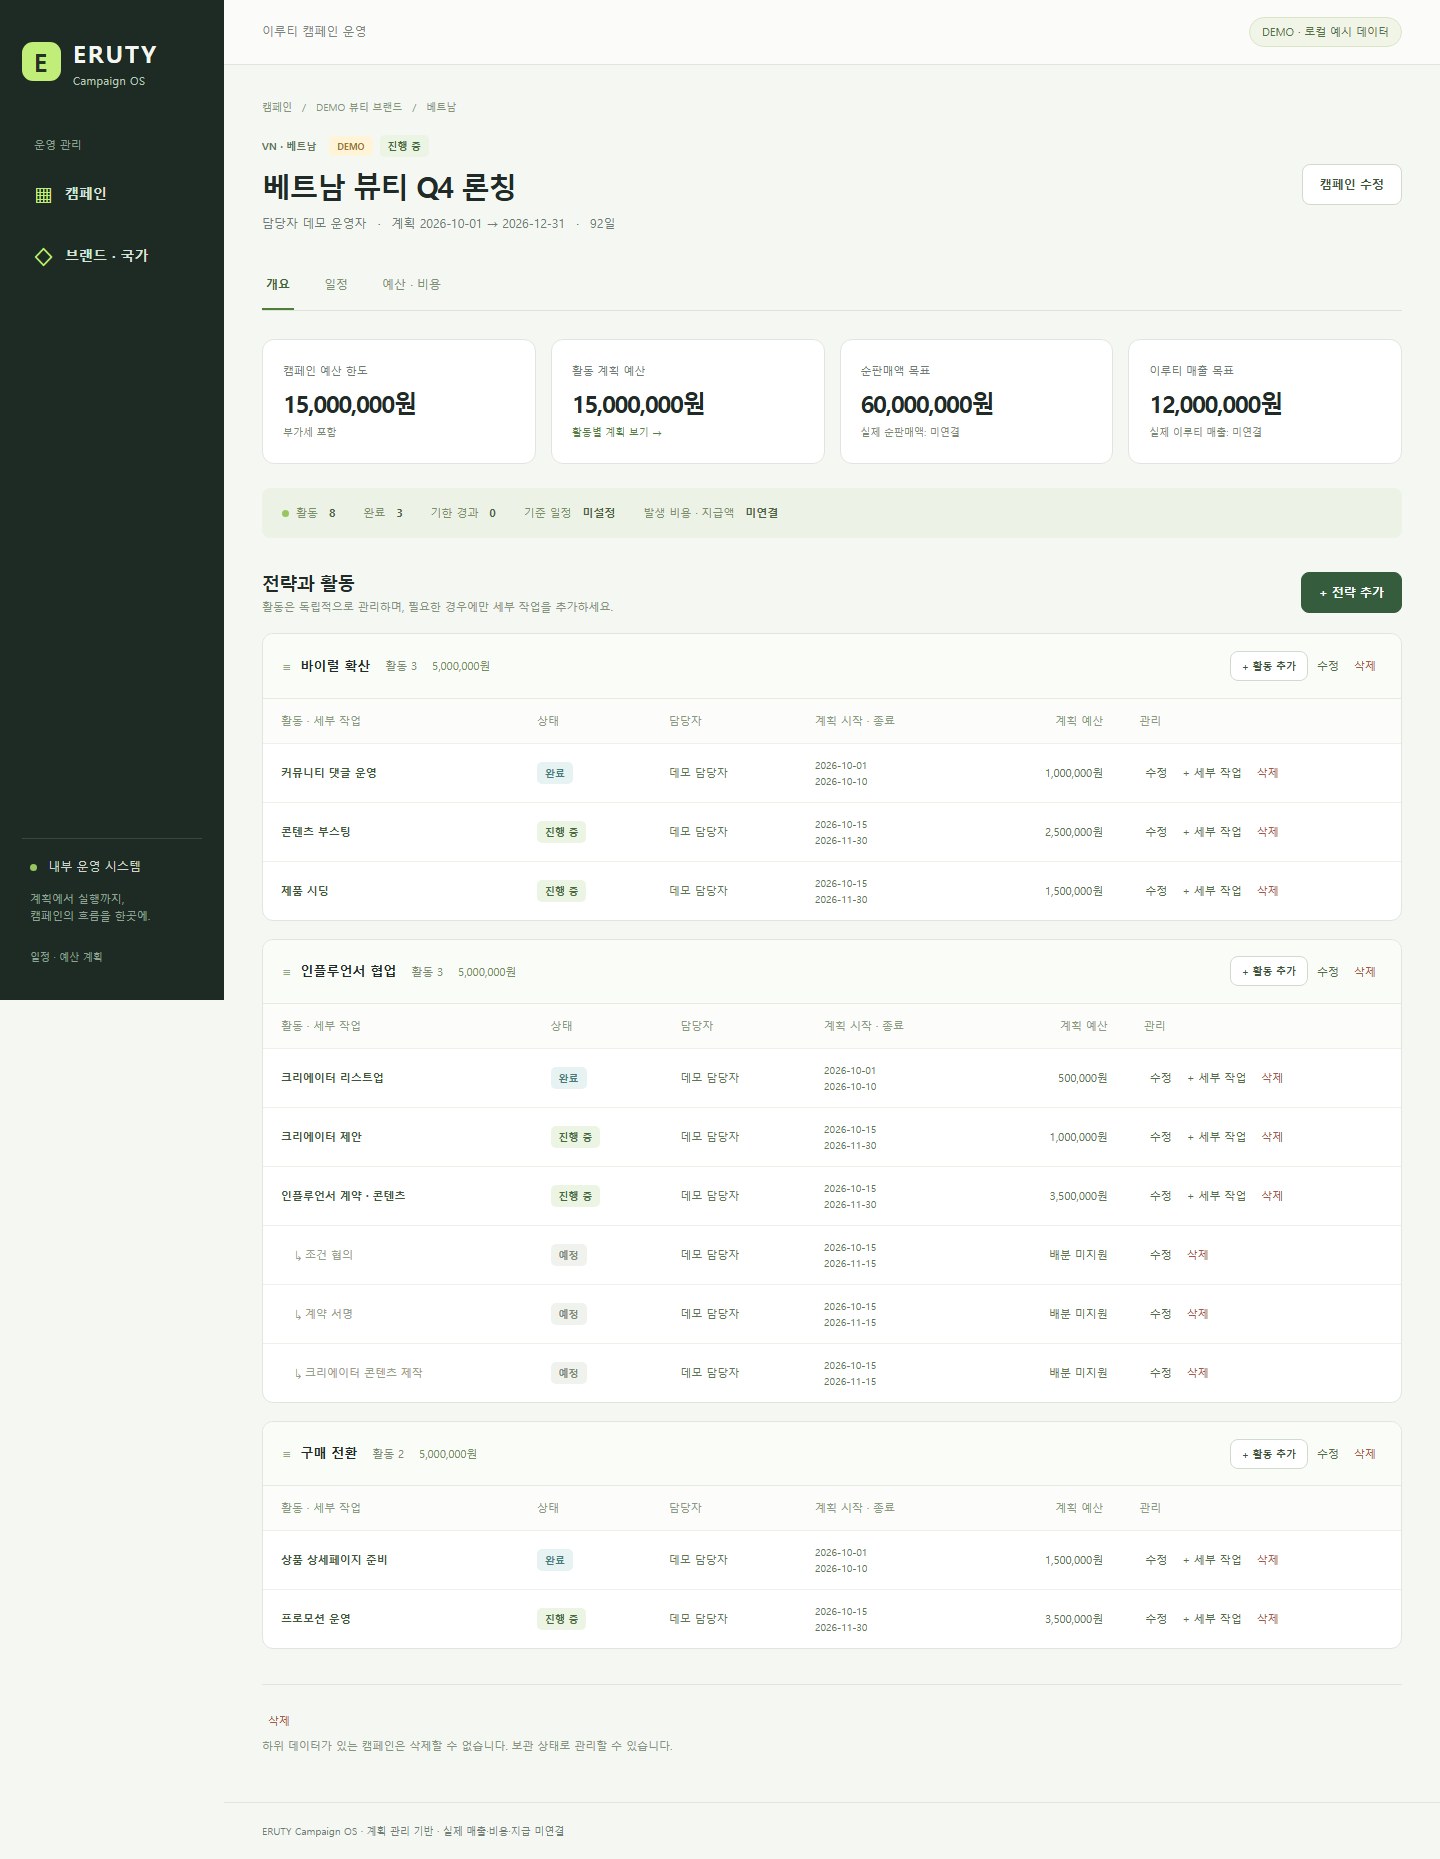
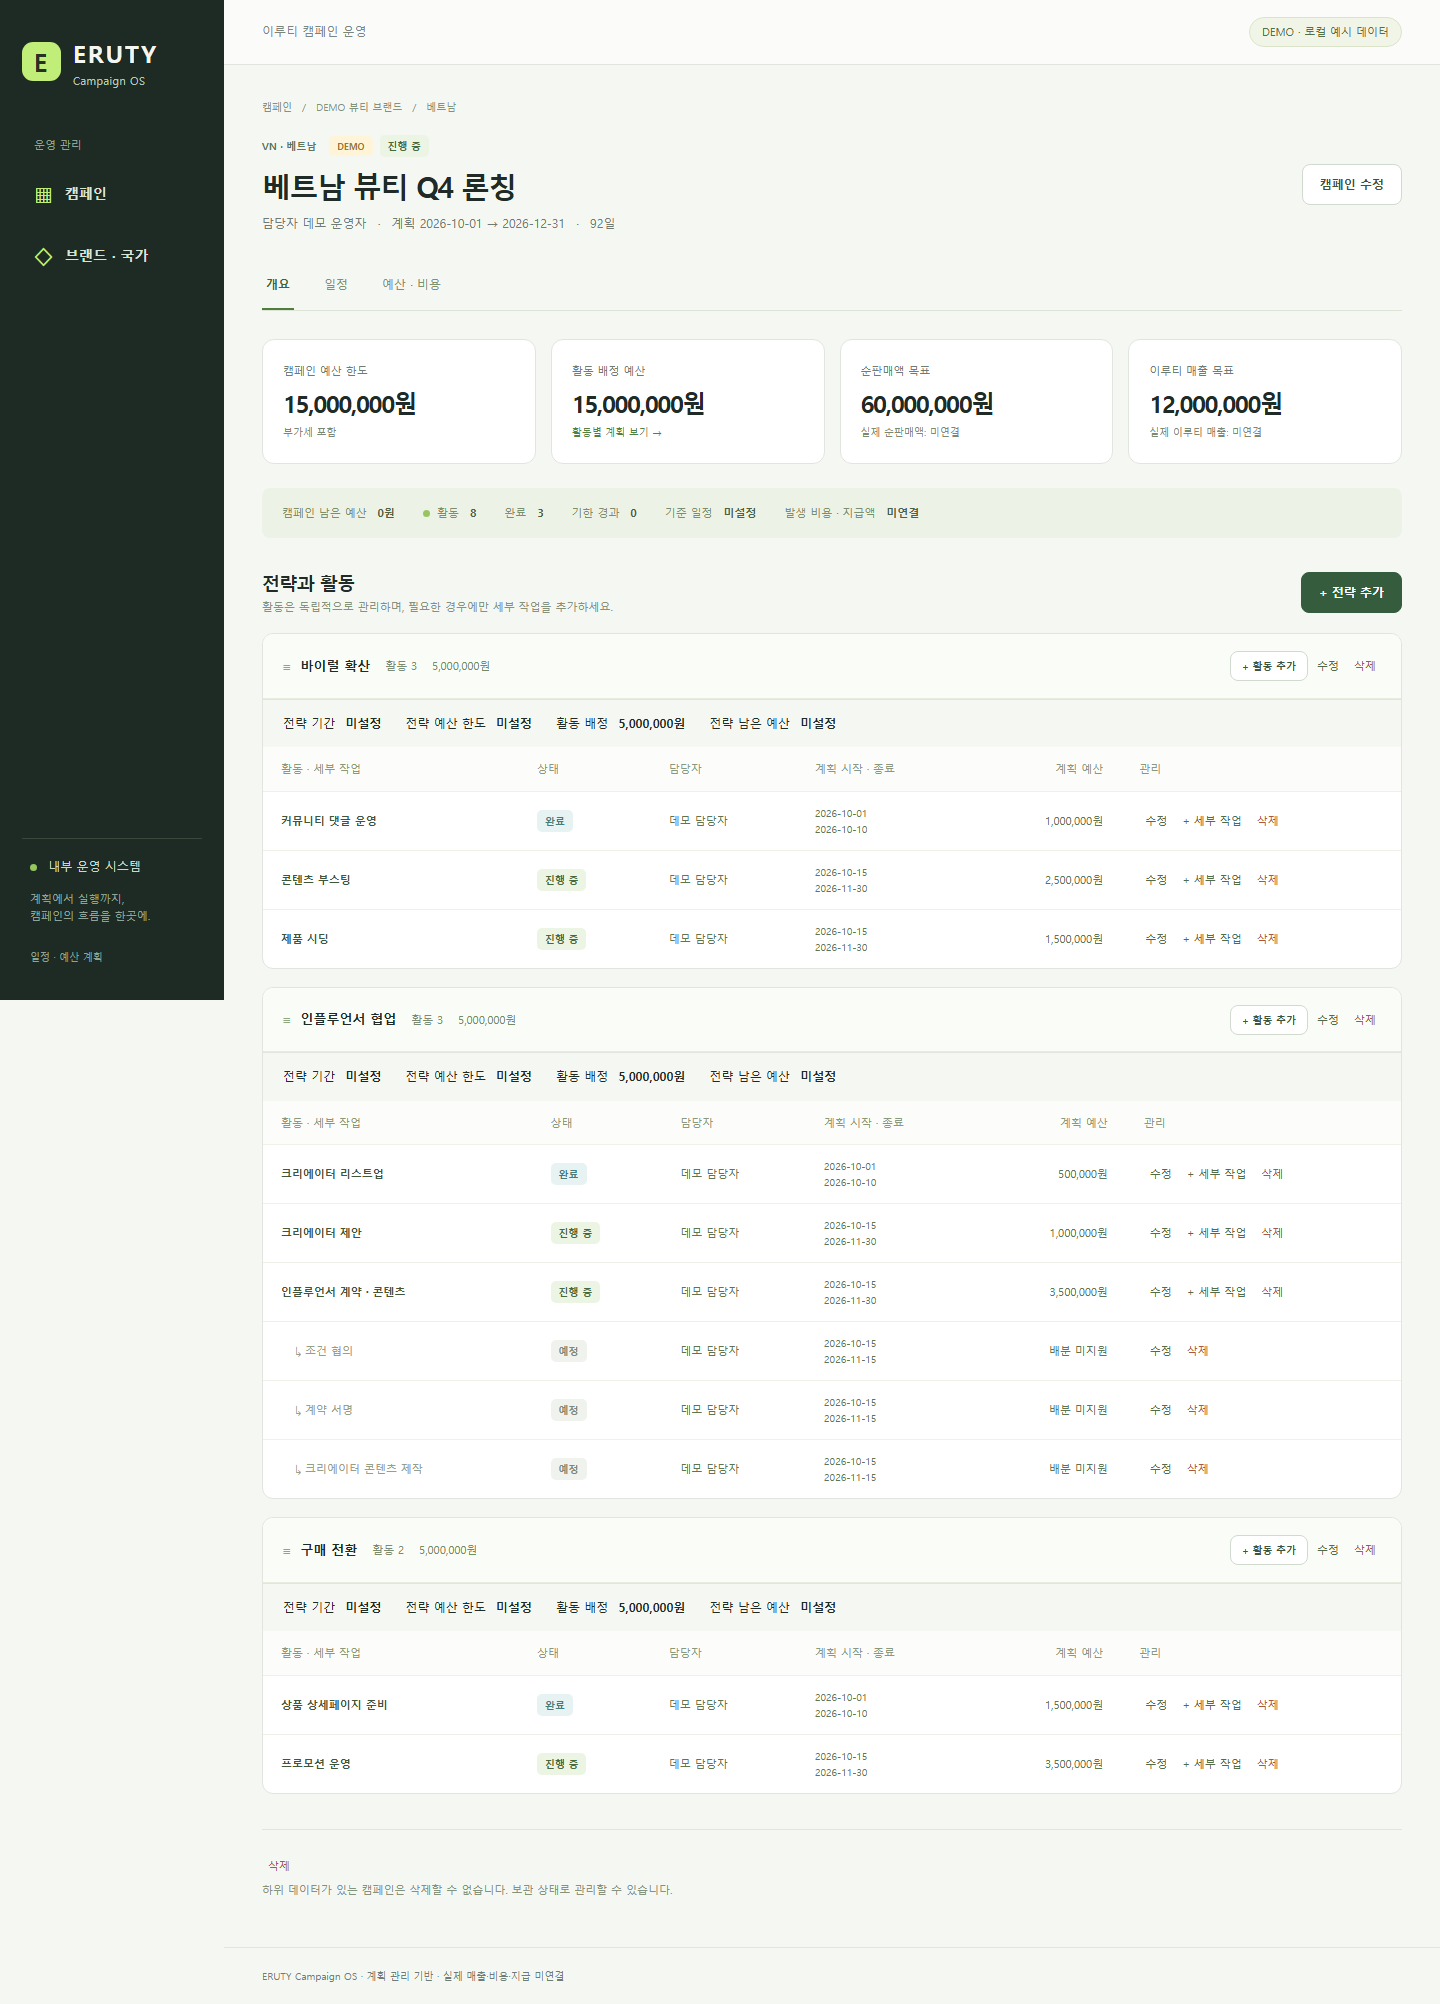
feat: add strategy periods and budget allocation visibility

diff --git a/components/campaign-detail.tsx b/components/campaign-detail.tsx
@@ -5,6 +5,7 @@ import { useRouter } from "next/navigation";
 import { api } from "./api";
 import { EntityForm, DeleteButton, type Field } from "./entity-form";
 import { campaignFields, workFields } from "./campaign-fields";
+import { StrategyPlan } from "./strategy-plan";
 import {
   krw,
   day,
@@ -100,16 +101,22 @@ export default function CampaignDetail({
       path: `campaigns/${id}/strategies${strategy ? `/${strategy.id}` : ""}`,
       fields: [
         { key: "name", label: "전략명" },
+        { key: "planStart", label: "전략 시작일", type: "date", nullable: true },
+        { key: "planEnd", label: "전략 종료일", type: "date", nullable: true },
+        { key: "budgetCeilingKrw", label: "전략 예산 한도 (원)", type: "money", nullable: true },
         { key: "sortOrder", label: "정렬 순서", type: "number" },
       ],
       editing: !!strategy,
       values: strategy
         ? {
             name: strategy.name,
+            planStart: strategy.planStart ? day(strategy.planStart) : null,
+            planEnd: strategy.planEnd ? day(strategy.planEnd) : null,
+            budgetCeilingKrw: strategy.budgetCeilingKrw,
             sortOrder: strategy.sortOrder,
             revision: strategy.revision,
           }
-        : { name: "", sortOrder: c.strategies.length },
+        : { name: "", sortOrder: c.strategies.length, planStart: day(c.planStart), planEnd: day(c.planEnd), budgetCeilingKrw: null },
     });
   const editWork = (
     strategyId: string,
@@ -117,6 +124,7 @@ export default function CampaignDetail({
     item?: Work,
   ) => {
     const activity = !parentId;
+    const strategy = c.strategies.find(s => s.id === strategyId);
     setEditor({
       title: item
         ? activity
@@ -135,8 +143,8 @@ export default function CampaignDetail({
         name: item?.name ?? "",
         ownerId: item?.ownerId ?? null,
         status: item?.status ?? "PLANNED",
-        plannedStart: day(item?.plannedStart ?? c.planStart),
-        plannedEnd: day(item?.plannedEnd ?? c.planEnd),
+        plannedStart: day(item?.plannedStart ?? strategy?.planStart ?? c.planStart),
+        plannedEnd: day(item?.plannedEnd ?? strategy?.planEnd ?? c.planEnd),
         sortOrder: item?.sortOrder ?? c.workItems.length,
         ...(item ? { revision: item.revision } : {}),
         ...(activity
@@ -298,7 +306,7 @@ export default function CampaignDetail({
               </p>
             </div>
             <div className="metric">
-              <span>활동 계획 예산</span>
+              <span>활동 배정 예산</span>
               <strong className="amount">
                 {krw(c.summary.allocatedPlanKrw)}
               </strong>
@@ -316,6 +324,7 @@ export default function CampaignDetail({
             </div>
           </div>
           <div className="overview-strip">
+            <div>캠페인 남은 예산 <strong>{krw(c.summary.unallocatedPlanKrw)}</strong>{c.summary.overBudget && <span className="badge warning">한도 초과</span>}</div>
             <div>
               <span className="dot green" />
               활동 <strong>{c.summary.activityCount}</strong>
@@ -414,6 +423,7 @@ export default function CampaignDetail({
                       </div>
                     )}
                   </div>
+                  <StrategyPlan strategy={strategy} workItems={c.workItems} campaign={c} />
                   {activities.length ? (
                     <div
                       className="table-scroll"
@@ -469,6 +479,7 @@ export default function CampaignDetail({
       )}
       {tab === "schedule" && (
         <>
+          <section className="panel"><h2>전략별 계획 기간</h2>{c.strategies.map(strategy => <div key={strategy.id}><h3>{strategy.name}</h3><StrategyPlan strategy={strategy} workItems={c.workItems} campaign={c} /></div>)}</section>
           <aside className="note">
             <strong>현재 계획 일정</strong>
             <p>
@@ -556,7 +567,7 @@ export default function CampaignDetail({
               </p>
             </div>
             <div className="metric">
-              <span>활동 계획 합계</span>
+              <span>활동에 배정한 예산</span>
               <strong className="amount">
                 {krw(c.summary.allocatedPlanKrw)}
               </strong>
@@ -565,7 +576,7 @@ export default function CampaignDetail({
               className={`metric ${c.summary.overBudget ? "over-budget" : ""}`}
             >
               <span>
-                {c.summary.overBudget ? "예산 한도 초과" : "미배정 계획 예산"}
+                {c.summary.overBudget ? "예산 한도 초과" : "캠페인 남은 예산"}
               </span>
               <strong className="amount">
                 {krw(c.summary.unallocatedPlanKrw)}
@@ -573,6 +584,7 @@ export default function CampaignDetail({
               <p>한도 − 활동 계획 합계</p>
             </div>
           </div>
+          <section className="panel"><h2>전략별 예산 한도 · 잔여</h2>{c.strategies.map(strategy => <div key={strategy.id}><h3>{strategy.name}</h3><StrategyPlan strategy={strategy} workItems={c.workItems} campaign={c} /></div>)}</section>
           <aside className="note">
             <strong>기초 예산 계획</strong>
             <p>

diff --git a/tests/integration/crud.test.ts b/tests/integration/crud.test.ts
@@ -135,6 +135,28 @@ afterAll(async () => {
 });
 
 describe("실제 PostgreSQL / Prisma CRUD", () => {
+  it("전략 기간·한도 저장 후 활동 배정·수정·삭제는 캠페인 잔여에서 차감·복원한다", async () => {
+    const campaign = await svc.saveCampaign(admin, { ...campaignInput(`TEST 전략 계획 ${runId}`), budgetCeilingKrw: "1000000" });
+    let strategy = await svc.saveStrategy(admin, campaign.id, { name: "TEST 계획 전략", sortOrder: 0, planStart: "2026-10-02", planEnd: "2026-10-20", budgetCeilingKrw: "500000" });
+    expect((await svc.detail(admin, campaign.id)).summary.unallocatedPlanKrw).toBe("1000000");
+    strategy = await svc.saveStrategy(admin, campaign.id, { name: "TEST 계획 전략 수정", sortOrder: 0, revision: strategy.revision }, strategy.id);
+    expect(strategy.planStart?.toISOString()).toBe("2026-10-02T00:00:00.000Z");
+    expect(strategy.budgetCeilingKrw).toBe(500000n);
+    await expect(db.strategy.update({ where: { id: strategy.id }, data: { budgetCeilingKrw: -1n } })).rejects.toThrow();
+    await expect(db.strategy.update({ where: { id: strategy.id }, data: { planEnd: toDate("2026-10-01") } })).rejects.toThrow();
+    const input = { ...workInput("TEST 예산 차감"), strategyId: strategy.id, ownerId: admin.id, plannedBudgetKrw: "200000" };
+    let activity = await svc.saveWork(admin, campaign.id, input);
+    expect((await svc.detail(admin, campaign.id)).summary.unallocatedPlanKrw).toBe("800000");
+    activity = await svc.saveWork(admin, campaign.id, { ...input, plannedBudgetKrw: "300000", revision: activity.revision }, activity.id);
+    const result = await svc.detail(admin, campaign.id);
+    expect(result.budgetCeilingKrw).toBe(1000000n);
+    expect(result.summary.unallocatedPlanKrw).toBe("700000");
+    expect(result.strategies[0].budgetCeilingKrw).toBe(500000n);
+    await svc.remove(admin, "work", activity.id, activity.revision, campaign.id);
+    expect((await svc.detail(admin, campaign.id)).summary.unallocatedPlanKrw).toBe("1000000");
+    await svc.remove(admin, "strategy", strategy.id, strategy.revision, campaign.id);
+    await svc.remove(admin, "campaign", campaign.id, campaign.revision, campaign.id);
+  });
   it("활동 생성 후 조회, 독립 활동과 원화 저장", async () => {
     const res = await request(
       "POST",

diff --git a/components/strategy-plan.tsx b/components/strategy-plan.tsx
@@ -1,0 +1,20 @@
+import { day, krw, type Strategy, type Work, type Campaign } from "./types";
+
+export function StrategyPlan({ strategy, workItems, campaign }: { strategy: Strategy; workItems: Work[]; campaign: Campaign }) {
+  const activities = workItems.filter(w => w.strategyId === strategy.id && w.kind === "ACTIVITY");
+  const allocated = activities.reduce((total, w) => total + w.budgetLines.reduce((sum, l) => sum + BigInt(l.plannedAmountKrw), 0n), 0n);
+  const remaining = strategy.budgetCeilingKrw === null ? null : BigInt(strategy.budgetCeilingKrw) - allocated;
+  const start = strategy.planStart ? day(strategy.planStart) : null;
+  const end = strategy.planEnd ? day(strategy.planEnd) : null;
+  const outside = start && end ? workItems.filter(w => w.strategyId === strategy.id && (day(w.plannedStart) < start || day(w.plannedEnd) > end)).length : 0;
+  const days = start && end ? Math.round((Date.parse(end) - Date.parse(start)) / 86400000) + 1 : null;
+  return <div className="strategy-plan">
+    <span>전략 기간 <strong>{start && end ? `${start} ~ ${end} · ${days}일` : "미설정"}</strong></span>
+    <span>전략 예산 한도 <strong>{strategy.budgetCeilingKrw === null ? "미설정" : krw(strategy.budgetCeilingKrw)}</strong></span>
+    <span>활동 배정 <strong>{krw(allocated.toString())}</strong></span>
+    <span>전략 남은 예산 <strong>{remaining === null ? "미설정" : krw(remaining.toString())}</strong></span>
+    {remaining !== null && remaining < 0n && <span className="badge warning">전략 예산 한도 초과</span>}
+    {outside > 0 && <span className="badge warning">전략 기간 밖 작업 {outside}개</span>}
+    {start && end && (start < day(campaign.planStart) || end > day(campaign.planEnd)) && <span className="badge warning">캠페인 기간 밖 전략</span>}
+  </div>;
+}

diff --git a/lib/service.ts b/lib/service.ts
@@ -291,6 +291,12 @@ export async function saveStrategy(
 ) {
   await authorizeCampaign(actor, campaignId, true);
   const { revision, ...data } = strategySchema.parse(input);
+  const fields = {
+    ...data,
+    planStart: data.planStart === undefined ? undefined : data.planStart === null ? null : toDate(data.planStart),
+    planEnd: data.planEnd === undefined ? undefined : data.planEnd === null ? null : toDate(data.planEnd),
+    budgetCeilingKrw: data.budgetCeilingKrw === undefined ? undefined : data.budgetCeilingKrw === null ? null : BigInt(data.budgetCeilingKrw),
+  };
   return transaction(async (tx) => {
     const before = id
       ? await tx.strategy.findFirst({ where: { id, campaignId } })
@@ -302,9 +308,9 @@ export async function saveStrategy(
     const after = id
       ? await tx.strategy.update({
           where: { id },
-          data: { ...data, revision: { increment: 1 } },
+          data: { ...fields, revision: { increment: 1 } },
         })
-      : await tx.strategy.create({ data: { ...data, campaignId } });
+      : await tx.strategy.create({ data: { ...fields, campaignId } });
     await audit(
       tx,
       actor,

diff --git a/lib/validation.ts b/lib/validation.ts
@@ -68,8 +68,14 @@ export const campaignSchema = z
     path: ["planEnd"],
   });
 export const strategySchema = z
-  .object({ name, sortOrder: z.number().int().min(0).max(100000), revision })
-  .strict();
+  .object({ name, sortOrder: z.number().int().min(0).max(100000), revision,
+    planStart: dateSchema.nullable().optional(),
+    planEnd: dateSchema.nullable().optional(),
+    budgetCeilingKrw: moneySchema.nullable().optional(),
+  })
+  .strict()
+  .refine(v => (v.planStart === undefined) === (v.planEnd === undefined) && (v.planStart === null) === (v.planEnd === null), { message: "전략 시작일과 종료일을 함께 입력하거나 함께 비워 주세요.", path: ["planEnd"] })
+  .refine(v => !v.planStart || !v.planEnd || v.planStart <= v.planEnd, { message: "전략 종료일은 시작일보다 빠를 수 없습니다.", path: ["planEnd"] });
 export const workSchema = z
   .object({
     strategyId: idSchema,

diff --git a/tests/unit/strategy.test.ts b/tests/unit/strategy.test.ts
@@ -1,0 +1,11 @@
+import { expect, it } from "vitest";
+import { strategySchema } from "../../lib/validation";
+it("전략 기간은 쌍으로 입력하고 역전된 기간·음수 예산을 거절한다", () => {
+  const value = { name: "전략", sortOrder: 0, planStart: "2026-10-12", planEnd: "2026-10-20", budgetCeilingKrw: "9007199254740993" };
+  expect(strategySchema.parse(value).budgetCeilingKrw).toBe("9007199254740993");
+  expect(strategySchema.safeParse({ ...value, planEnd: null }).success).toBe(false);
+  expect(strategySchema.safeParse({ ...value, planEnd: undefined }).success).toBe(false);
+  expect(strategySchema.safeParse({ ...value, planEnd: "2026-10-01" }).success).toBe(false);
+  expect(strategySchema.safeParse({ ...value, budgetCeilingKrw: "-1" }).success).toBe(false);
+  expect(strategySchema.safeParse({ name: "기존 전략", sortOrder: 0 }).success).toBe(true);
+});

diff --git a/app/globals.css b/app/globals.css
@@ -9,6 +9,8 @@
 .auth-controls { display: flex; align-items: center; gap: 12px; font-size: 12px; }
 .auth-controls button { border: 0; background: transparent; color: inherit; cursor: pointer; }
 
+.strategy-plan { display: flex; flex-wrap: wrap; gap: 10px 24px; padding: 14px 20px; background: #f5f7f2; border-top: 1px solid var(--line); font-size: 12px; }
+.strategy-plan strong { margin-left: 6px; }
 :root {
   color-scheme: light;
   --ink: #202b27;

diff --git a/components/types.ts b/components/types.ts
@@ -18,6 +18,9 @@ export type Strategy = {
   name: string;
   sortOrder: number;
   revision: number;
+  planStart: string | null;
+  planEnd: string | null;
+  budgetCeilingKrw: string | null;
 };
 export type Work = {
   id: string;

diff --git a/docs/STRATEGY_PLANNING.md b/docs/STRATEGY_PLANNING.md
@@ -1,0 +1,17 @@
+# 전략 기간·예산 입력 보완
+
+전략은 기존에 이름·정렬 순서만 저장했고 기간과 예산은 활동에만 있었다. 전략 추가·수정에 계획 시작일, 종료일, 예산 한도를 추가한다. PostgreSQL DATE와 nullable BIGINT로 기존 전략의 미설정 상태를 보존하며 기존 기간·예산을 임의로 채우지 않는다.
+
+- 캠페인 총예산 한도는 고정된다. 남은 예산 = 캠페인 한도 − 활동 배정 합계(공통 예산이 있으면 한 번 포함). 활동 등록·수정·삭제에 따라 잔여를 다시 계산한다.
+- 전략 한도는 활동 배정을 관리하는 기준이며 캠페인 배정 합계에 더하지 않는다. 전략 잔여 = 전략 한도 − 소속 활동 배정 합계. 선택적 세부 작업을 중복 합산하지 않는다.
+- 전략 기간은 두 날짜를 함께 입력/해제하며 역전된 기간과 음수·원화 범위 초과를 서버/DB에서 차단한다. 날짜나 금액을 미설정한 기존 전략도 그대로 조회·편집한다. 예전 API가 새 필드를 생략하면 기존 값을 보존한다.
+- 전략의 한도 초과·기간 밖 작업은 경고로 표시한다. 전략을 수정해도 기존 활동 날짜·예산을 자동 변경하지 않는다. 새 활동의 기본 날짜만 전략 기간을 사용한다.
+- 개요에 캠페인 잔여, 전략 기간·한도·활동 배정·잔여를 표시한다. 일정 탭에는 전략 기간을, 예산 탭에는 전략별 한도·잔여를 표시한다. 계약·실제 지출·지급과는 별도의 계획 값이다.
+
+기존 마이그레이션 4의 메타데이터 테이블 RLS 처리로 shadow DB에서 migrate dev가 실패했다. 적용된 마이그레이션을 변경하거나 데이터를 초기화하지 않고 Prisma migrate diff(기존/변경 datamodel)로 여섯 번째 additive migration을 생성하고 DB CHECK를 추가했다. Prisma migrate deploy로 검증한다.
+
+검증: 전략 저장/수정/기존 값 보존, DB 제약, 고정 캠페인 한도와 활동 배정·수정·삭제에 따른 잔여 차감·복원, 전략 기간·예산 폼과 일정/예산 화면 연결, 모바일 표시를 검사한다. 명령은 npm run db:migrate:test, npm test, npm run test:integration, npm run test:e2e, npm run typecheck, npm run lint, npm run build이다.
+
+2026-10-12 검증 결과: 단위 31개, PostgreSQL 통합 14개, 브라우저 E2E 4개(총 49개) 통과. 잔여 표시 검증과 모바일 스크린샷 보완 후 관련 E2E 2개를 다시 통과했다. TypeScript, ESLint, 운영 빌드 통과. Supabase 운영 DB에 여섯 번째 마이그레이션을 적용하고 실제 eruty_app 역할로 전략 기간·한도 보존, 활동 배정 20만 원 → 30만 원에 따른 캠페인 잔여 80만 원 → 70만 원, 삭제 후 100만 원 복원을 확인했다. 검증용으로 생성한 행만 제거하고 감사 기록은 남겼다. 기존 Supabase 보안 알림(마이그레이션 메타데이터의 정책 없음, Auth 유출 비밀번호 보호 꺼짐)에 변경은 없다.
+
+스크린샷: `docs/screenshots/10-strategy-create.png`, `docs/screenshots/11-strategy-plan-mobile.png`. 실행은 `.env.example`을 복사해 DB/인증을 설정한 뒤 `npm ci`, `npm run db:migrate`, `npm run dev` 순서다. 운영 환경에서는 기존 Supabase 로그인 구성을 사용한다.
